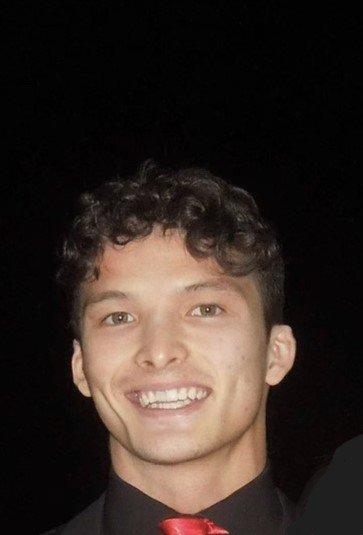
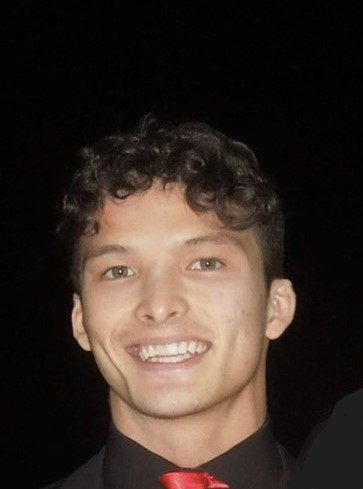
should be last updates 7.17.25

diff --git a/index.html b/index.html
@@ -129,6 +129,20 @@
         </article>
         <hr>
         <article class="experience-item">
+            <h4 class="title is-4 is-s">Undergraduate Researcher</h4>
+            <h6 class="subtitle is-6">
+                Space Systems Laboratory
+                <p class="subtitle is-7">Dec 2024 - Present</p>
+            </h6>
+            <p>
+                I worked in the Neutral Research Boyauncy Facility. I am responsible for improvements to ASTRA, a medium-sized Arduino-controlled OTV. 
+                I was tasked with implementing computer control (ROS2/C++). Since there was preexisting Arduino (C++) code, I am implemented a higher-order 
+                control utilizing a computer (eventually a pi5) to send inputs via serial communication to the Arduino and control future sensor/camera implementations. 
+                I am utilizing NX to develop an improved suspension system (linear to variable).
+            </p>
+        </article>
+        <hr>
+        <article class="experience-item">
             <h4 class="title is-4 is-s">Mechanical Engineering Intern</h4>
             <h6 class="subtitle is-6">
                 Orano TN Fabrication

diff --git a/style.css b/style.css
@@ -20,7 +20,7 @@
 #headshot {
     max-width: 200px;
     width: 100%;
-    aspect-ratio: 2/3;
+    aspect-ratio: 3/4;
     height: 200px;
     border-radius: 50%;
     border: 2px solid #ffd200;
